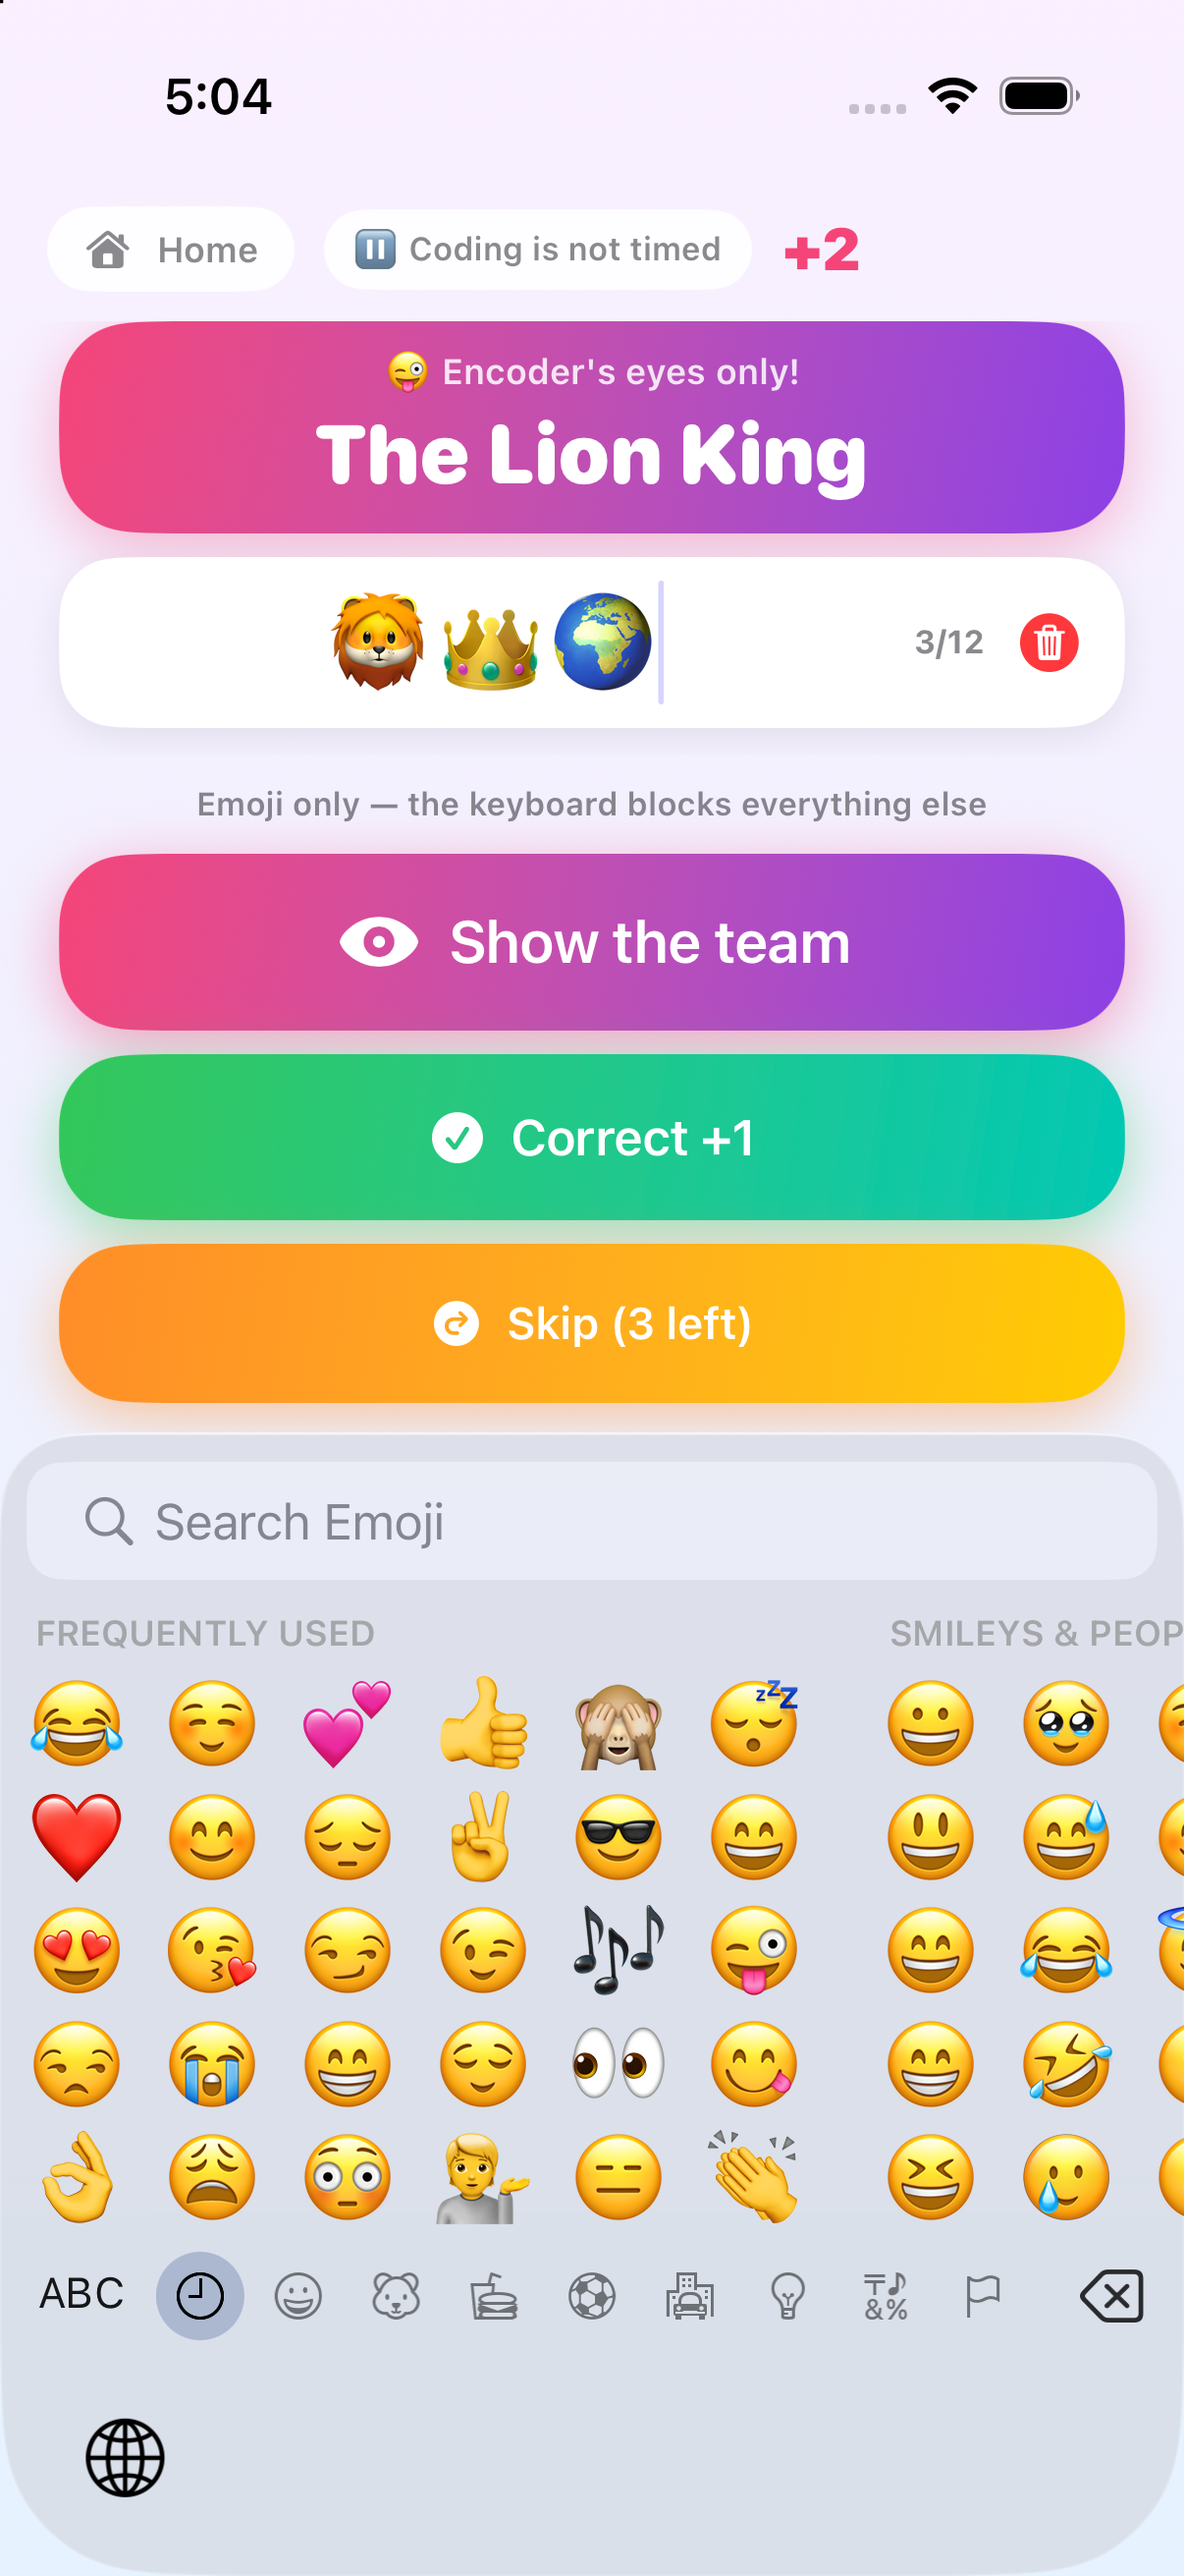
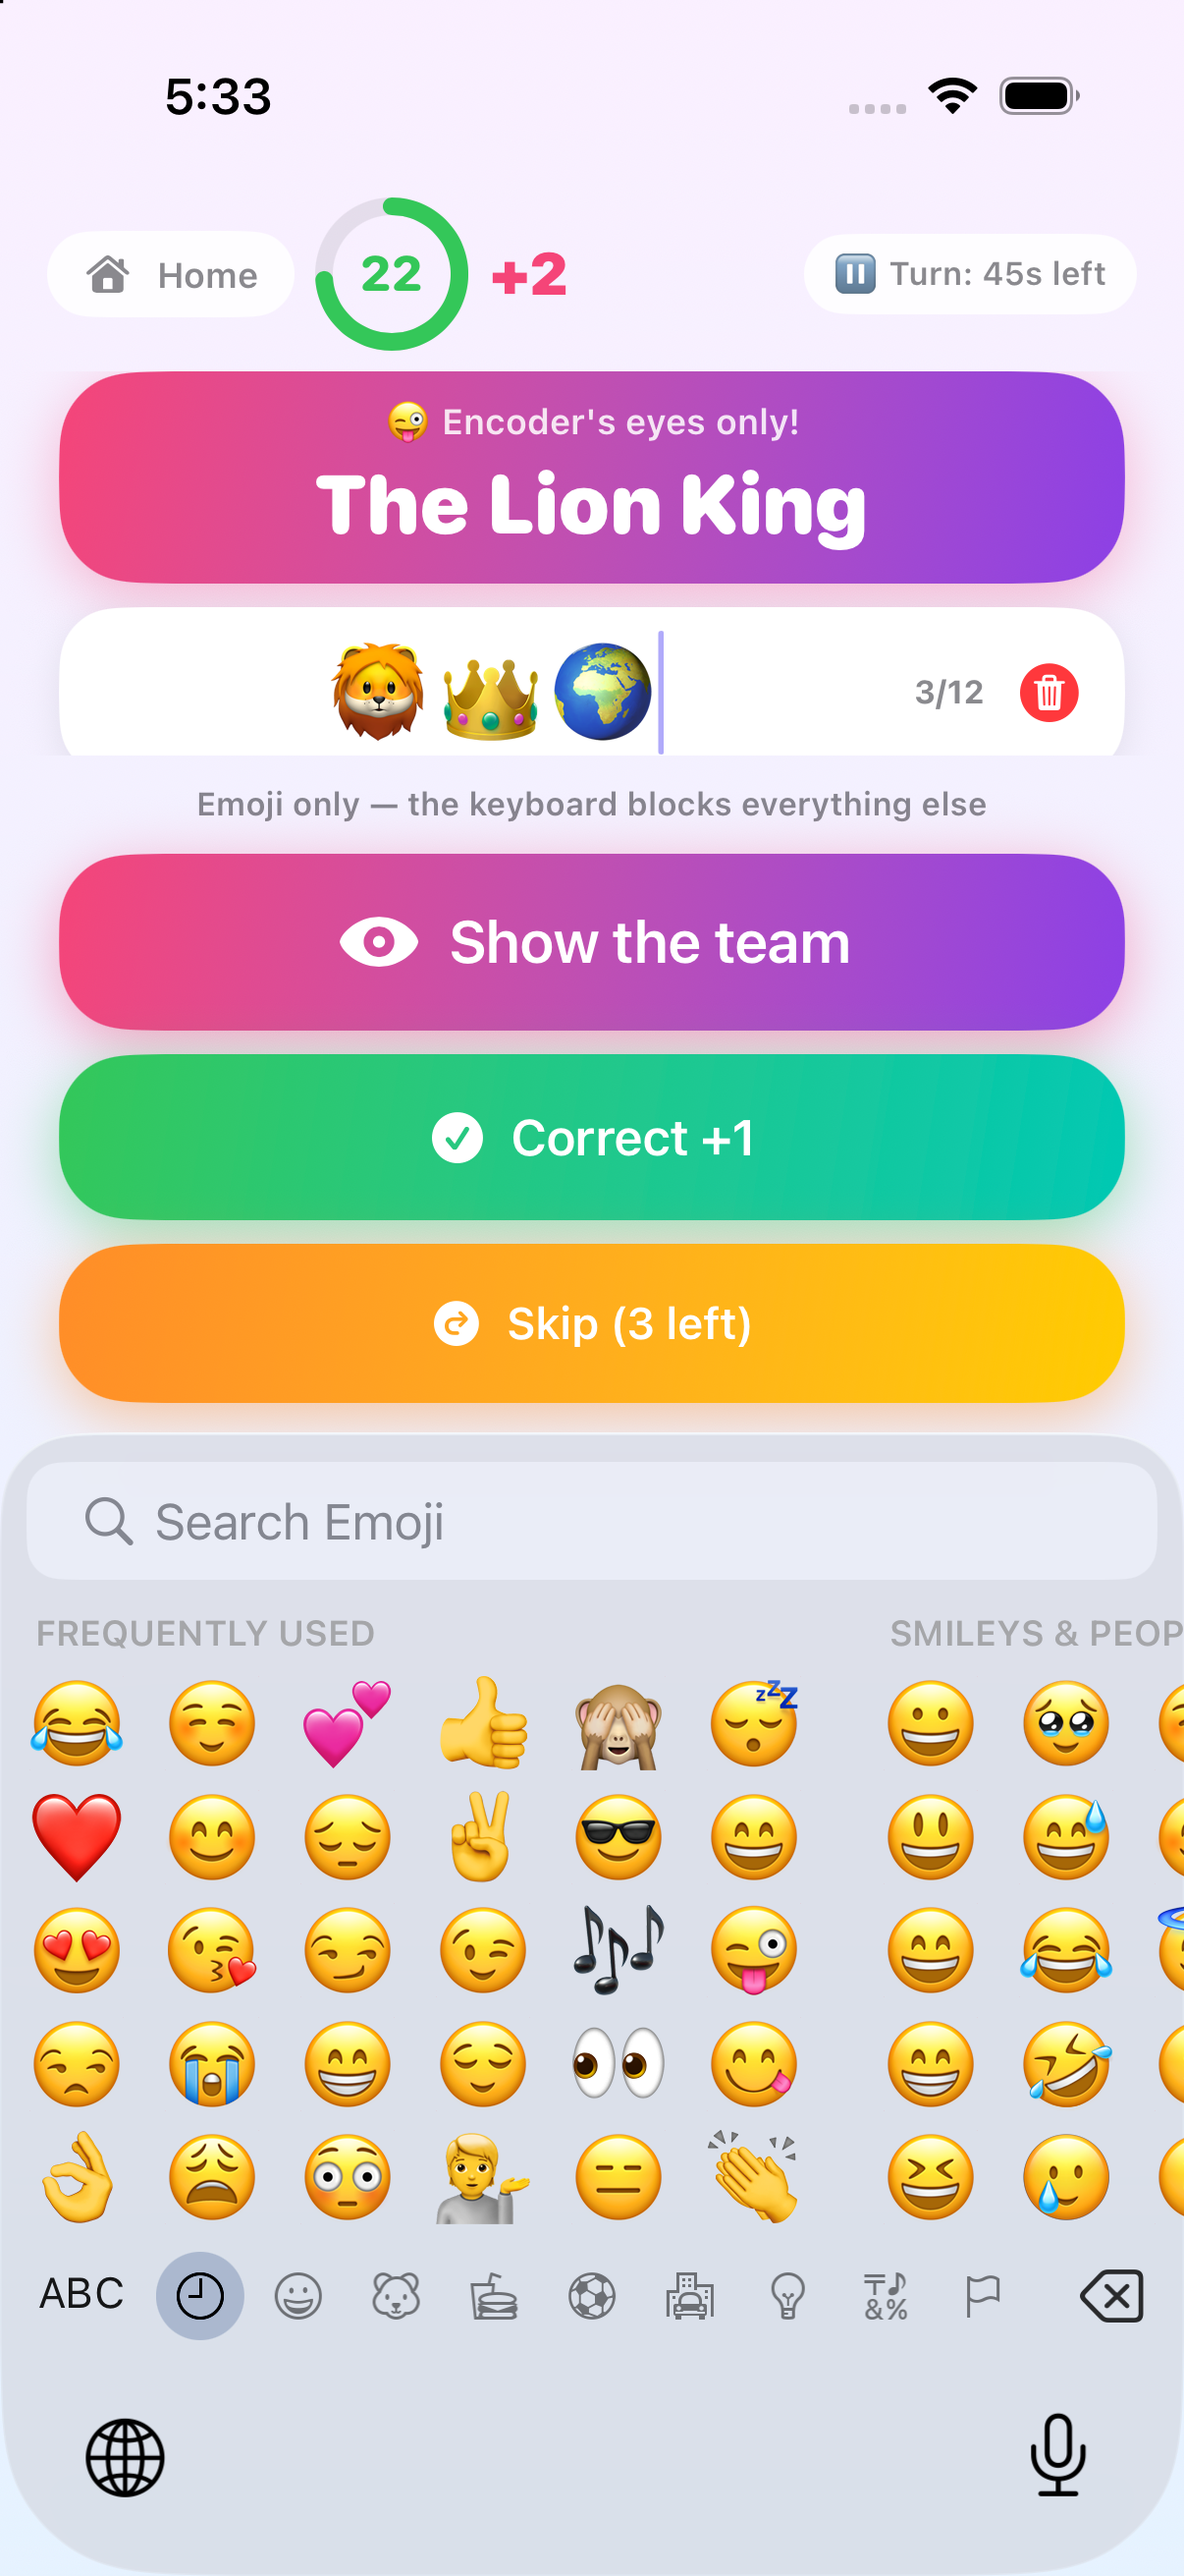
PartyRelay: swap Emoji Code's two clocks to the right screens
They were the wrong way round: composing was untimed and the guessing
screen counted down emojiWordSeconds. It is the other way — composing is
the part that needs a limit, and guessing is ordinary play.

Composing now runs a per-word clock of settings.emojiWordSeconds: the
encoder has that long to build the emoji for the word in front of them,
and when it hits zero that word is dropped (recorded as not guessed) and
the next one comes up, without spending a skip. It resets per word and
still never counts toward the turn.

Guessing now runs store.roundDuration, the same Time per turn the other
games use — it accumulates across words and ends the turn at zero. Only
one clock ticks at a time: taking the phone back to edit freezes the turn
clock and resumes the composing one.

So the word screen carries the composing ring plus a chip showing the turn
time held in reserve, and the display screen carries the turn ring. The
setting keeps its range and persistence but is relabelled to spelling
time, and the handoff blurb, guess caption, game rule and README follow
the new meaning.

Changed region(s): [[0.0307, 0.0618, 0.9511, 0.3089], [0.859, 0.9268, 0.9204, 0.9886], [0.1841, 0.0309, 0.2454, 0.0618]]

diff --git a/PartyRelay/Views/EmojiCodeView.swift b/PartyRelay/Views/EmojiCodeView.swift
@@ -7,10 +7,13 @@ import Combine
 /// 展示屏上除了表情什么都没有，要改表情就得把手机拿回来（按「收起」回到看词界面）。
 /// 计分按钮全部留在看词界面，跟你画我猜一致。
 ///
-/// 计时也和别的玩法不一样：这里不吃 store.roundDuration 那份全局单局时间。
-/// 拼表情本来就是慢工，翻键盘、搜表情的时间全部不计时；只有把屏幕转给队友（展示界面）
-/// 之后，这个词才开始走自己那一份倒计时（设置里单独可调，默认 30 秒，与单局时长无关）。
-/// 换词就重新给满，收起回来改表情时暂停。
+/// 计时是两套各走各的，任一时刻只有一套在动：
+/// - 看词界面（拼表情）：每个词单独一份，长度是设置里的「拼表情时长」（emojiWordSeconds，
+///   默认 30，可调 10~90）。出题人只有这么久拼 emoji，走完这个词就作废换下一个（不扣跳过次数）。
+///   这份不计入单局时长。
+/// - 展示界面（队友猜）：走 store.roundDuration，也就是主设置里的每队单局时长，和别的玩法一样，
+///   跨词累计，走完这一遍就结束。
+/// 换句话说：拼的时候单局时钟停着，展示的时候拼表情时钟停着。
 struct EmojiCodeView: View {
     @EnvironmentObject var store: GameStore
     @ObservedObject private var motion = MotionManager.shared
@@ -20,7 +23,8 @@ struct EmojiCodeView: View {
     @State private var ownPoints = 0
     @State private var stolenPoints = 0
     @State private var skipsLeft = 0
-    @State private var remaining = GameSettings().emojiWordSeconds  // 本词还剩几秒（只在展示界面走表）
+    @State private var composeLeft = GameSettings().emojiWordSeconds  // 本词拼表情还剩几秒（只在看词界面走表）
+    @State private var turnLeft = GameSettings().roundSeconds         // 本遍单局时长还剩几秒（只在展示界面走表）
     @State private var showDisplay = false     // 按键切换：看词界面 / 展示界面
     @State private var keyboardUp = false      // 输入框是否持有第一响应者
     @State private var forceShow = false       // 连点三次强制显词（防偷窥模式下）
@@ -29,8 +33,8 @@ struct EmojiCodeView: View {
     /// 一条密码最多几个表情：再多队友一眼读不完，展示屏也放不下
     static let maxEmojis = 12
 
-    /// 每个词单独一份倒计时（设置里可调 10~90 秒），和全局单局时长（settings.roundSeconds）无关
-    private var wordSeconds: Int { store.settings.emojiWordSeconds }
+    /// 拼表情：每个词单独一份（设置里可调 10~90 秒），不计入单局时长
+    private var composeSeconds: Int { store.settings.emojiWordSeconds }
 
     private let timer = Timer.publish(every: 1, on: .main, in: .common).autoconnect()
     private var game: GameKind { .emojiCode }
@@ -44,8 +48,8 @@ struct EmojiCodeView: View {
         store.settings.privacyGuardOn && !forceShow && motion.posture == .flat
     }
 
-    /// 本词展示过、又被收回来改表情：倒计时停在原地，回到展示界面接着走
-    private var timerPaused: Bool { remaining < wordSeconds }
+    /// 已经猜过一阵、这会儿回到看词界面：单局时钟停在原地，下次展示接着走
+    private var turnClockStarted: Bool { turnLeft < store.roundDuration }
 
     var body: some View {
         ZStack {
@@ -57,7 +61,8 @@ struct EmojiCodeView: View {
             }
         }
         .onAppear {
-            remaining = wordSeconds
+            composeLeft = composeSeconds
+            turnLeft = store.roundDuration
             skipsLeft = store.skipAllowance
             if word.isEmpty { word = store.nextWord() }
             if store.settings.privacyGuardOn { motion.start() }
@@ -66,22 +71,34 @@ struct EmojiCodeView: View {
                 code = "🦁👑🌍"
                 ownPoints = 2
                 showDisplay = m == "emojiguess"
-                // 截图里让本词的倒计时正在走（留 4/5）
-                if showDisplay { remaining = max(1, wordSeconds * 4 / 5) }
+                // 截图里两块表都摆成「正在走」的样子
+                composeLeft = max(1, composeSeconds * 4 / 5)
+                turnLeft = max(1, store.roundDuration * 3 / 4)
             }
             keyboardUp = !showDisplay
         }
         .onDisappear { motion.stop() }
         .onReceive(timer) { _ in
-            // 只有词摆在队友面前时才走表：看词界面拼表情的时间一秒都不算
-            guard showDisplay, remaining > 0 else { return }
-            remaining -= 1
-            if remaining == 0 {
-                // 这个词的时间走完还没猜出来 → 这一遍到此为止（当前词按没猜出来记账）
-                FeedbackManager.shared.timeUp()
-                store.finishPlay(own: ownPoints, stolen: stolenPoints)
-            } else if remaining <= 5 {
-                FeedbackManager.shared.countdownTick()
+            if showDisplay {
+                // 队友在猜：走单局时长，跨词累计，和别的玩法一样
+                guard turnLeft > 0 else { return }
+                turnLeft -= 1
+                if turnLeft == 0 {
+                    FeedbackManager.shared.timeUp()
+                    store.finishPlay(own: ownPoints, stolen: stolenPoints)
+                } else if turnLeft <= 5 {
+                    FeedbackManager.shared.countdownTick()
+                }
+            } else {
+                // 出题人在拼表情：走本词自己那份，走完这个词就作废换下一个（不扣跳过次数）
+                guard composeLeft > 0 else { return }
+                composeLeft -= 1
+                if composeLeft == 0 {
+                    FeedbackManager.shared.timeUp()
+                    nextRiddle(guessed: false)
+                } else if composeLeft <= 5 {
+                    FeedbackManager.shared.countdownTick()
+                }
             }
         }
     }
@@ -92,7 +109,7 @@ struct EmojiCodeView: View {
         VStack(spacing: 10) {
             HStack(spacing: 10) {
                 HomeExitButton()
-                untimedBadge
+                TimerRing(remaining: composeLeft, total: composeSeconds, size: 46)
                 Text("+\(ownPoints)")
                     .font(.title3.weight(.black))
                     .foregroundStyle(game.colors[0])
@@ -103,6 +120,7 @@ struct EmojiCodeView: View {
                         .foregroundStyle(.red)
                 }
                 Spacer()
+                pausedTurnChip
                 if store.openBuzz { OpenBuzzBadge(compact: true) }
                 if store.settings.privacyGuardOn {
                     ForceRevealButton(forceShow: $forceShow, taps: $forceTaps)
@@ -134,11 +152,11 @@ struct EmojiCodeView: View {
         }
     }
 
-    /// 看词界面没有倒计时圈：这里不计时，只说明这件事（收回来改表情时顺带报一下本词还剩多少）
-    private var untimedBadge: some View {
-        Text(timerPaused ? L("emoji.timer_paused", remaining) : L("emoji.untimed"))
+    /// 看词界面上那圈是「拼表情」的表；单局那块表这会儿停着，用小胶囊报一下还剩多少
+    private var pausedTurnChip: some View {
+        Text(L(turnClockStarted ? "emoji.turn_paused" : "emoji.turn_pending", turnLeft))
             .font(.caption2.bold())
-            .foregroundStyle(timerPaused ? Color.orange : .secondary)
+            .foregroundStyle(.secondary)
             .lineLimit(1)
             .minimumScaleFactor(0.7)
             .padding(.horizontal, 10)
@@ -276,7 +294,7 @@ struct EmojiCodeView: View {
         VStack(spacing: 14) {
             HStack(spacing: 10) {
                 HomeExitButton()
-                TimerRing(remaining: remaining, total: wordSeconds, size: 48)
+                TimerRing(remaining: turnLeft, total: store.roundDuration, size: 48)
                 Text("+\(ownPoints)")
                     .font(.title3.weight(.black))
                     .foregroundStyle(game.colors[0])
@@ -300,7 +318,7 @@ struct EmojiCodeView: View {
                     Text(L("emoji.guess_title"))
                         .font(.subheadline.bold())
                         .foregroundStyle(.white.opacity(0.85))
-                    Text(L("emoji.word_timer", wordSeconds))
+                    Text(L("emoji.guess_timer"))
                         .font(.caption2.bold())
                         .foregroundStyle(.white.opacity(0.7))
                 }
@@ -340,7 +358,7 @@ struct EmojiCodeView: View {
         store.markCurrentWord(guessed: guessed)
         word = store.nextWord()
         code = ""
-        remaining = wordSeconds
+        composeLeft = composeSeconds   // 下一个词重新拿满拼表情时间；单局时钟不动
         showDisplay = false
         keyboardUp = true
         forceShow = false

diff --git a/README.md b/README.md
@@ -43,7 +43,7 @@ More screenshots (Chinese UI, settings, Open Buzz, privacy guard, drawing canvas
 | 🎨 | **Draw & Guess** | One player sketches the word on an in-app canvas (no letters or numbers), teammates guess from the same screen. |
 | 🤐 | **Lip Reading** | One player mouths the word silently — no sound at all — and the team reads their lips. |
 | 🕺 | **Charades** | One player acts the word out with gestures only, no sound. |
-| 😜 | **Emoji Code** | One player spells the word out in emoji (emoji-only input field, system emoji keyboard), then hides the word and shows the team nothing but the emoji. Spelling is untimed; each word gets its own clock (30s by default, adjustable) once it is shown. |
+| 😜 | **Emoji Code** | One player spells the word out in emoji (emoji-only input field, system emoji keyboard), then hides the word and shows the team nothing but the emoji. Spelling each word is on its own clock (30s by default, adjustable); the guessing runs on the normal per-turn clock. |
 | 🌟 | **Hall of Fame** | Both teams play at once, no timer: each team is secretly assigned a famous name (celebrity or fictional character), then they take turns asking each other yes/no questions until someone guesses the other team's name. |
 
 The first five pull from their own hand-written word list (not machine translated), split into 3 internal difficulty tiers that quietly get harder as the match progresses. A word that has come up once never comes up again — see [Never the same word twice](#never-the-same-word-twice) below.
@@ -54,7 +54,9 @@ Emoji Code is Draw & Guess turned inside out. Instead of drawing in front of eve
 
 Tapping *Show the team* hides the word and freezes the screen into nothing but the emoji — no keyboard, no editing, no scoring buttons, so the phone can sit on the table or face the room without anything to fiddle with. To change the code you have to take the phone back and tap the one button there is, which returns to the word screen where the scoring buttons (correct / sniped / skip) live — the same split Draw & Guess uses.
 
-Emoji Code is also the one game that does **not** spend the shared per-turn clock. Hunting for the right emoji is slow by nature, and timing it just punishes the encoder for how long the keyboard search takes — so the word screen has no countdown at all, only a badge saying so. Each word instead carries its own clock, and it only runs while the emoji are actually facing the team: it starts when *Show the team* is tapped, pauses if the phone is taken back to edit the code, and resumes on the next reveal. Guessing right, getting sniped or skipping all move on to a fresh full clock; if a word's time runs out, that team's turn ends there. The length is its own setting — **😜 Emoji Code — per word** under Match, 10–90s in steps of 5, default 30 — entirely separate from *Time per turn*, which this game never touches.
+Emoji Code runs **two separate clocks**, and only one of them ticks at a time. Composing is on a per-word clock: the encoder gets that long to build the emoji for the word in front of them, and when it runs out the word is dropped and the next one comes up — no skip is spent. That clock resets for every word and never counts toward the turn. Guessing is on the ordinary per-turn clock, the same *Time per turn* every other game uses: it starts when *Show the team* is tapped, accumulates across every word the team gets through, and ends the turn when it hits zero. Take the phone back to edit the code and the turn clock stops where it is while the composing clock picks up again.
+
+So the word screen shows the composing ring plus a small paused chip for the turn time being held in reserve, and the display screen shows the turn ring. Composing length is its own setting — **😜 Emoji Code — spelling time** under Match, 10–90s in steps of 5, default 30 — independent of *Time per turn*.
 
 ### 🌟 Hall of Fame — the whole-team game
 
